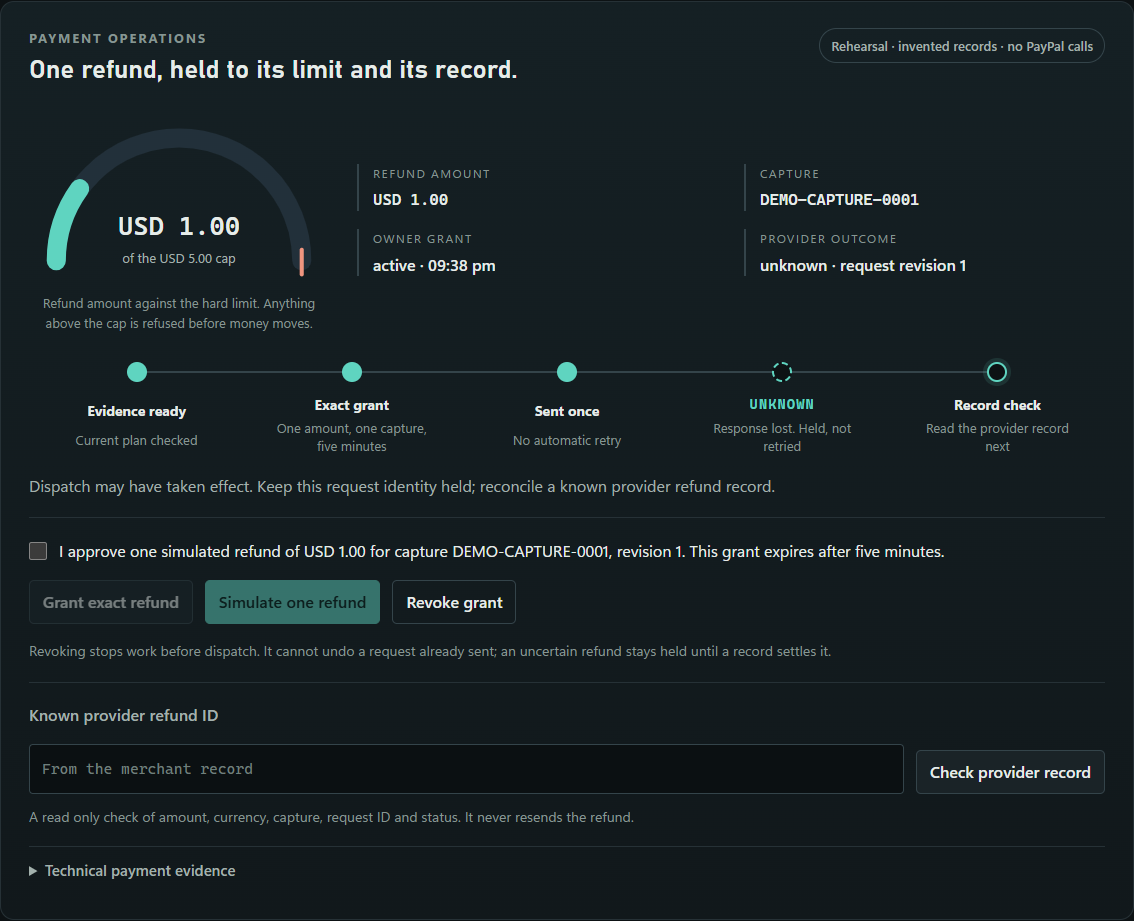
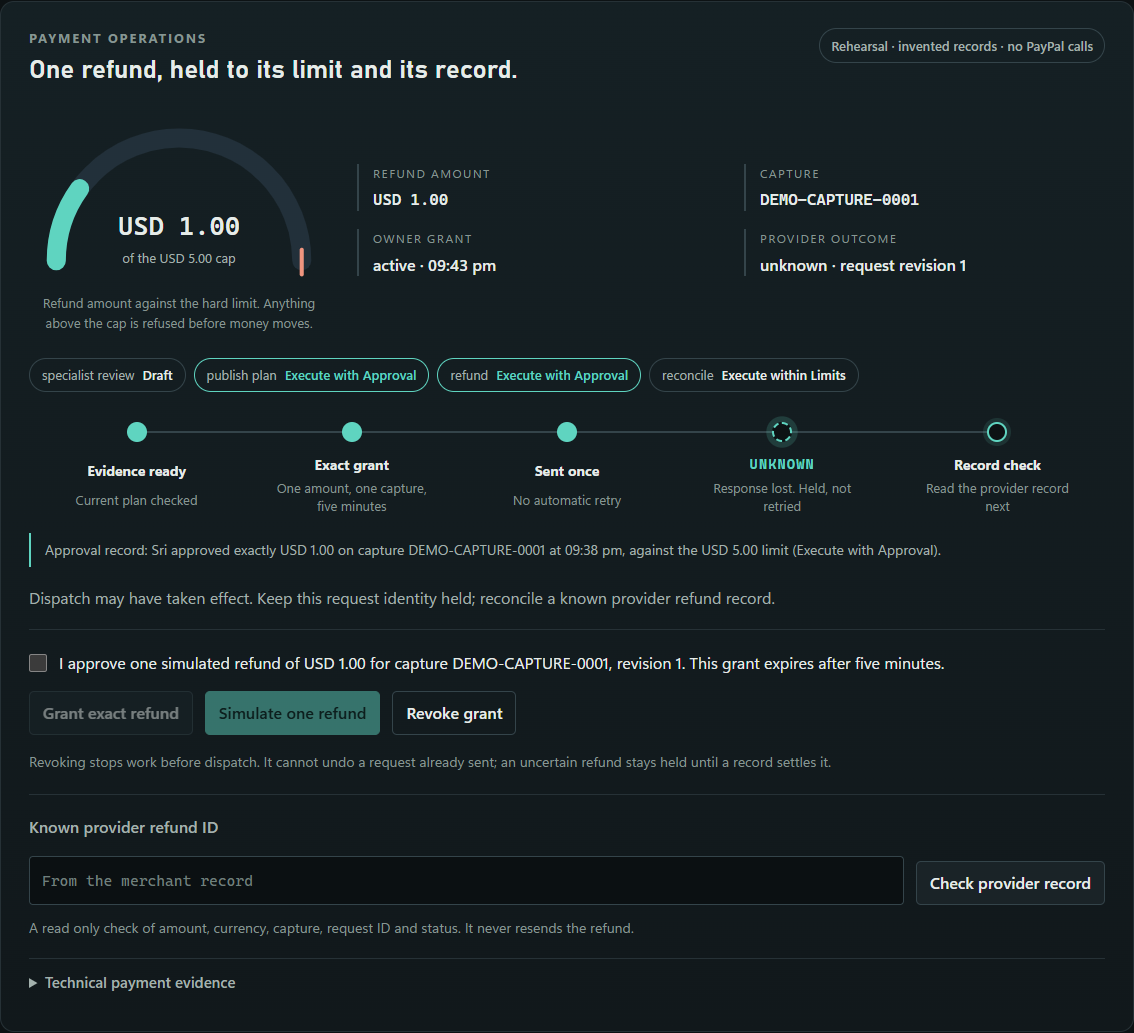
README, submission notes and video script with honest run labels
The rehearsal check can run specialists on the local model (--local-ai) and
reports each task's state on failure.

diff --git a/scripts/check_demo.py b/scripts/check_demo.py
@@ -22,7 +22,8 @@ class Case:
         self.gateway = gateway or RehearsalGateway(Path(folder) / "rehearsal-provider.sqlite3", outcome)
         options = {"worker": worker} if worker else {}
         self.controller = RefundController(Path(folder) / "case.sqlite3", gateway=self.gateway, case=case, **options)
-        self.owner = self.controller.create({"name": "Synthetic refund review", "display_name": "Owner", "brief": "Review a fictional refund policy."})
+        # Model modes accept only this bundled fictional brief, so no real data can reach a model.
+        self.owner = self.controller.create({"name": "Synthetic refund review", "display_name": "Owner", "brief": "Draft a fictional refund policy for the Relayloom demo store."})
 
     def action(self, name, **body):
         return self.controller.mutate(self.owner, self.controller.session(self.owner)["csrf"], name, body)
@@ -33,10 +34,11 @@ class Case:
     def grant(self):
         revision = self.state()["room"]["revision"]
         self.action("run", revision=revision)
-        deadline = time.monotonic() + 10
+        deadline = time.monotonic() + (300 if self.controller.mode == "local-ai" else 10)
         while not all(row["state"] in ("COMPLETE", "REUSED") for row in self.state()["tasks"]):
-            if time.monotonic() > deadline:
-                raise RuntimeError("specialists did not settle")
+            tasks = self.state()["tasks"]
+            if any(row["state"] == "FAILED" for row in tasks) or time.monotonic() > deadline:
+                raise RuntimeError("specialists did not settle: " + ", ".join(f"{row['role']}={row['state']}" for row in tasks))
             time.sleep(.05)
         self.action("permission", revision=revision, publish=True)
         self.action("publish", revision=revision)
@@ -118,11 +120,16 @@ CASES = [
 
 
 def main():
-    print("Clearwake demo check. REHEARSAL ONLY: fake provider, synthetic records, no network.")
+    worker = None
+    if "--local-ai" in sys.argv:
+        from check_sandbox import local_ai_worker  # free local model on loopback; no provider calls
+        worker = local_ai_worker()
+    print("Clearwake demo check. REHEARSAL ONLY: fake provider, synthetic records. Specialists:",
+          "local AI (qwen2.5-coder:3b on this machine)" if worker else "deterministic, no model calls")
     failed = 0
     for title, outcome, check in CASES:
         with tempfile.TemporaryDirectory() as folder:
-            case = Case(folder, outcome)
+            case = Case(folder, outcome, worker=worker)
             try:
                 ok, detail = check(case)
             except Exception as error:  # report, do not hide, an unexpected failure

diff --git a/SUBMISSION_PAYPAL.md b/SUBMISSION_PAYPAL.md
@@ -1,0 +1,72 @@
+# Clearwake: PayPal AI Hackathon submission notes
+
+## What it does
+
+Finance operations teams want AI agents to help with refunds, but an agent saying "done" is not a payment receipt. Clearwake is a shared refund workroom:
+
+* AI specialists prepare the case.
+* The owner approves one exact refund, for one amount on one capture.
+* Clearwake sends at most one request to PayPal.
+* PayPal's own record decides whether the refund happened.
+
+A lost provider response is held as UNKNOWN until a read of PayPal's refund record settles it. It is never blindly retried. A refund above the limit is refused before any money moves.
+
+## Features
+
+* **Autonomy policy** (`policy/autonomy.json`, read by the server, never by the model): specialist review runs at Draft, publishing and refunds at Execute with Approval, reconciliation at Execute within Limits. A prompt cannot change it, and each case database is bound to the policy it started with.
+* **Recorded approval**: who approved, the exact amount and capture, when, the limit and the level. Shown on screen and in the activity log. No approval means no request.
+* **Limit gauge**: the refund amount against the USD 5.00 cap. Above the cap is refused at setup and again at send time.
+* **Send once**: the request ID is reserved before dispatch. A duplicate, a restart or a second click replays the held operation instead of sending again.
+* **UNKNOWN node**: a lost or interrupted response stays UNKNOWN, pulsing in the timeline, until reconciliation reads the provider record. It then resolves to settled (COMPLETED) or reversed (declined or cancelled).
+* **Record check**: amount, currency, capture link, request correlation (`custom_id`) and status must all match before the refund is shown as settled.
+* **Shared workroom**: owner, editor and viewer roles. Only the owner can approve, send, revoke or reconcile.
+
+## How PayPal is used (sandbox only)
+
+| PayPal API | Used for |
+| --- | --- |
+| OAuth client credentials | Server side token, never sent to the browser |
+| `POST /v2/checkout/orders` and `/capture` | One time setup: a USD 20.00 sandbox payment, approved by the sandbox buyer |
+| `GET /v2/payments/captures/{id}` | Preflight before every refund |
+| `POST /v2/payments/captures/{id}/refund` with `PayPal-Request-Id` and `custom_id` | One refund, under the limit |
+| `GET /v2/payments/refunds/{id}` | Record check and reconciliation |
+
+The adapter refuses any base URL other than `https://api-m.sandbox.paypal.com`, refuses redirects and proxies, and only allows these routes. Keys load from the ignored local `.env` and are never printed.
+
+## Where AI is used
+
+* Specialists (product, engineering, support) prepare the refund case in parallel; support waits for both.
+* **Local AI:** `--enable-local-ai` runs them on `qwen2.5-coder:3b` through Ollama on the same machine. It is free, with no provider calls, a fixed fictional brief and a six attempt ledger.
+* **Default:** without that flag, specialists are deterministic so the rehearsal makes no model calls.
+* Models can only propose text. They cannot approve, send or reconcile money.
+
+## What ran (filled from actual runs only)
+
+| Run | Mode | Result |
+| --- | --- | --- |
+| Four cases, `scripts/check_demo.ps1` | Rehearsal, invented records, fake provider | 4 of 4 PASS (30 Oct) |
+| Specialists on the local model (`qwen2.5-coder:3b`, Ollama) | Real local model, fictional brief | Ran (30 Oct): 3 real model calls, 412 tokens reported. Product and engineering outputs passed their contract checks. The support output failed validation and was refused, so this flow does not complete on the local model yet. The rehearsal uses deterministic specialists |
+| Sandbox OAuth and setup order | PayPal sandbox | Ran (30 Oct): token issued, order `3BU49347KG046682J` created (USD 20.00), waiting for sandbox buyer approval |
+| Sandbox capture | PayPal sandbox | PENDING, after buyer approval |
+| Four cases, `scripts/check_sandbox.ps1` | PayPal sandbox (case b is an injected fault in sandbox) | PENDING |
+
+## How to run
+
+```sh
+git clone --recurse-submodules https://github.com/Sriharsan/clearwake.git
+cd clearwake
+python -m clearwake --port 8810
+```
+
+To use the sandbox:
+1. Copy `.env.example` to `.env` and add your own sandbox app's `PAYPAL_CLIENT_ID` and `PAYPAL_CLIENT_SECRET`.
+2. Run `scripts/sandbox_setup.ps1` once and approve with a sandbox personal account.
+3. Run `scripts/check_sandbox.ps1`.
+
+## Changes during the submission period
+
+Every commit in this repository and in the pinned Relayloom core is dated after 1 October 2026; see [docs/HACKATHON_UPDATES.md](docs/HACKATHON_UPDATES.md).
+
+## Not claimed
+
+No live PayPal (production), no real money, no customers. Sandbox results show the integration working against PayPal's test environment, nothing more.

diff --git a/README.md b/README.md
@@ -1,16 +1,40 @@
 # Clearwake
 
-### Send once. Resolve uncertainty. Verify the refund.
+Clearwake lets AI agents prepare refunds while a person approves one exact amount, and PayPal's own record decides whether the refund really happened. A lost response is held as UNKNOWN and never retried blindly; a refund above the limit is refused before any money moves.
 
-Clearwake is a shared refund workroom for finance operations teams. People and
-specialists prepare the case together; the owner approves one exact effect;
-uncertain provider responses stay held until a known payment record verifies
-what happened. An agent saying “done” is not a payment receipt.
+```sh
+git clone --recurse-submodules https://github.com/Sriharsan/clearwake.git && cd clearwake && python -m clearwake --port 8810
+```
 
-**Current build:** runnable local prototype with a durable fake gateway,
-sandbox-only PayPal adapter and a pinned public multi-agent workroom. Default
-mode makes zero network/model calls. Real PayPal sandbox and live AI acceptance
-are separate gates; see [the contribution and verification record](docs/PROVENANCE.md).
+Open http://127.0.0.1:8810. Python 3.11 or newer, nothing to install. Windows: `.\demo.ps1`. macOS or Linux: `./demo.sh`.
+
+![Clearwake payment view in rehearsal: limit gauge at USD 1.00 of a USD 5.00 cap, autonomy levels, and a timeline holding a lost response as UNKNOWN](docs/screenshot-unknown-1440.png)
+
+*Screenshot: rehearsal mode, invented records, fake provider.*
+
+**License:** MIT. **Status:** a working local app with 39 offline tests (35 Python, 4 UI). Default mode is a rehearsal with a fake provider and invented records. A real PayPal sandbox adapter is built in; what has actually run against the sandbox is listed in [SUBMISSION_PAYPAL.md](SUBMISSION_PAYPAL.md). Built during the PayPal AI Hackathon submission period; see [docs/HACKATHON_UPDATES.md](docs/HACKATHON_UPDATES.md).
+
+### Autonomy where it is safe, approval where it matters, proof after every action
+
+| Operation | Autonomy level | What that means |
+| --- | --- | --- |
+| Specialist review | Draft | AI specialists prepare the plan. They cannot approve, send, revoke or reconcile money. |
+| Publish plan | Execute with Approval | The owner allows publication. Publishing never grants payment permission. |
+| Refund | Execute with Approval | The owner approves one exact amount on one capture, within the USD 5.00 limit, for five minutes. Never retried automatically. |
+| Reconcile | Execute within Limits | A read only check of the provider record runs on its own and never sends money. |
+
+The levels live in [policy/autonomy.json](policy/autonomy.json), read by the server, never by the model, and bound to each case database. A prompt cannot change them. Every refund has an approval record (who, exact amount and capture, when, against which limit), shown on screen and in the activity log. A refund is shown as settled only when the provider record matches.
+
+### Four cases, one command each
+
+| Case | Rehearsal (no network) | PayPal sandbox (needs keys in `.env`) |
+| --- | --- | --- |
+| a. Refund under the limit, checked against the record | `scripts/check_demo.ps1` | `scripts/check_sandbox.ps1` |
+| b. Lost response goes to UNKNOWN, no blind retry | same | same (injected fault in sandbox) |
+| c. Reconciliation resolves UNKNOWN | same | same |
+| d. Over limit refund refused before money moves | same | same |
+
+Each prints PASS or FAIL per case. Shell versions: `scripts/check_demo.sh`, `scripts/check_sandbox.sh`. Sandbox setup: copy `.env.example` to `.env`, add your own sandbox app keys, then run `scripts/sandbox_setup.ps1` once.
 
 ## Run a clean checkout
 

diff --git a/VIDEO_SCRIPT.md b/VIDEO_SCRIPT.md
@@ -1,0 +1,25 @@
+# Clearwake demo video script (under 3 minutes)
+
+Record the browser and one terminal only. Use **Rehearsal** captions for rehearsal shots and **PayPal sandbox** captions only for shots that really ran against the sandbox. Upload publicly to YouTube with no music or third party logos.
+
+Before recording, run once and keep both terminals ready:
+```
+.\scripts\check_demo.ps1        # rehearsal: must print 4 PASS
+.\scripts\check_sandbox.ps1     # sandbox: must print 4 PASS (needs keys and setup)
+```
+
+| Time | Show | Exact clicks or command | On screen caption |
+| --- | --- | --- | --- |
+| 0:00 | Title card, then the empty workroom | `.\demo.ps1` opens http://127.0.0.1:8810 | "An AI agent saying a refund is done is not a receipt." |
+| 0:15 | Refund under the limit, checked against the record | **Create a workroom** (name `Sri`), **Run specialists**, tick **Allow artifact publication**, **Publish verified artifact**, tick the approval sentence, **Grant exact refund**, **Simulate one refund**, **Check provider record**. Point at the gauge (USD 1.00 of USD 5.00), the approval record line and the timeline ending in **Settled** | "Rehearsal, invented records. Owner approves one exact amount. Settled only when the provider record matches." |
+| 0:35 | The same case against PayPal | Terminal: `.\scripts\check_sandbox.ps1`, show line **a. PASS** with the sandbox refund ID | "PayPal sandbox. A real USD 1.00 sandbox refund, checked against PayPal's refund record." |
+| 0:45 | Lost response goes to UNKNOWN | Stop the server, run `.\demo.ps1 -Outcome lost-response`, repeat the clicks up to **Simulate one refund**. Point at the pulsing **UNKNOWN** node and the disabled send button | "Rehearsal. The provider recorded the refund but the reply was lost. Held as UNKNOWN. Not retried." |
+| 1:10 | The sandbox version | Terminal: line **b. PASS** (`sandbox refund POSTs=1`) | "PayPal sandbox, injected fault: the real refund was sent, its reply withheld. One POST only." |
+| 1:20 | Reconciliation resolves it | Second terminal: `.\.venv\Scripts\python.exe scripts\show_provider_record.py data\demo-lost-response-<time>`, paste the ID, **Check provider record**. The UNKNOWN node turns into **Response lost, resolved** and **Settled** | "Rehearsal. A read only check of the provider record. Nothing is resent." |
+| 1:40 | The sandbox version | Terminal: line **c. PASS** | "PayPal sandbox. UNKNOWN resolved by reading PayPal's refund record." |
+| 1:50 | Over limit refused | Terminal: line **d. PASS** (USD 6.00 refused at setup and at send) | "Refused before any money moves. The limit lives in policy/autonomy.json, not in a prompt." |
+| 2:10 | Autonomy levels | Point at the strip: Draft, Execute with Approval, Execute within Limits | "Autonomy where it is safe. Approval where it matters. Proof after every action." |
+| 2:20 | What is real | Show SUBMISSION_PAYPAL.md "What ran" table | "Sandbox: what ran against PayPal. Rehearsal: invented records. Next: more providers and payouts." |
+| 2:45 | Repo link | https://github.com/Sriharsan/clearwake | "MIT. One command to run." |
+
+If the sandbox check has not passed yet, cut the 0:35, 1:10 and 1:40 shots and say "sandbox run pending" rather than showing rehearsal as sandbox.
